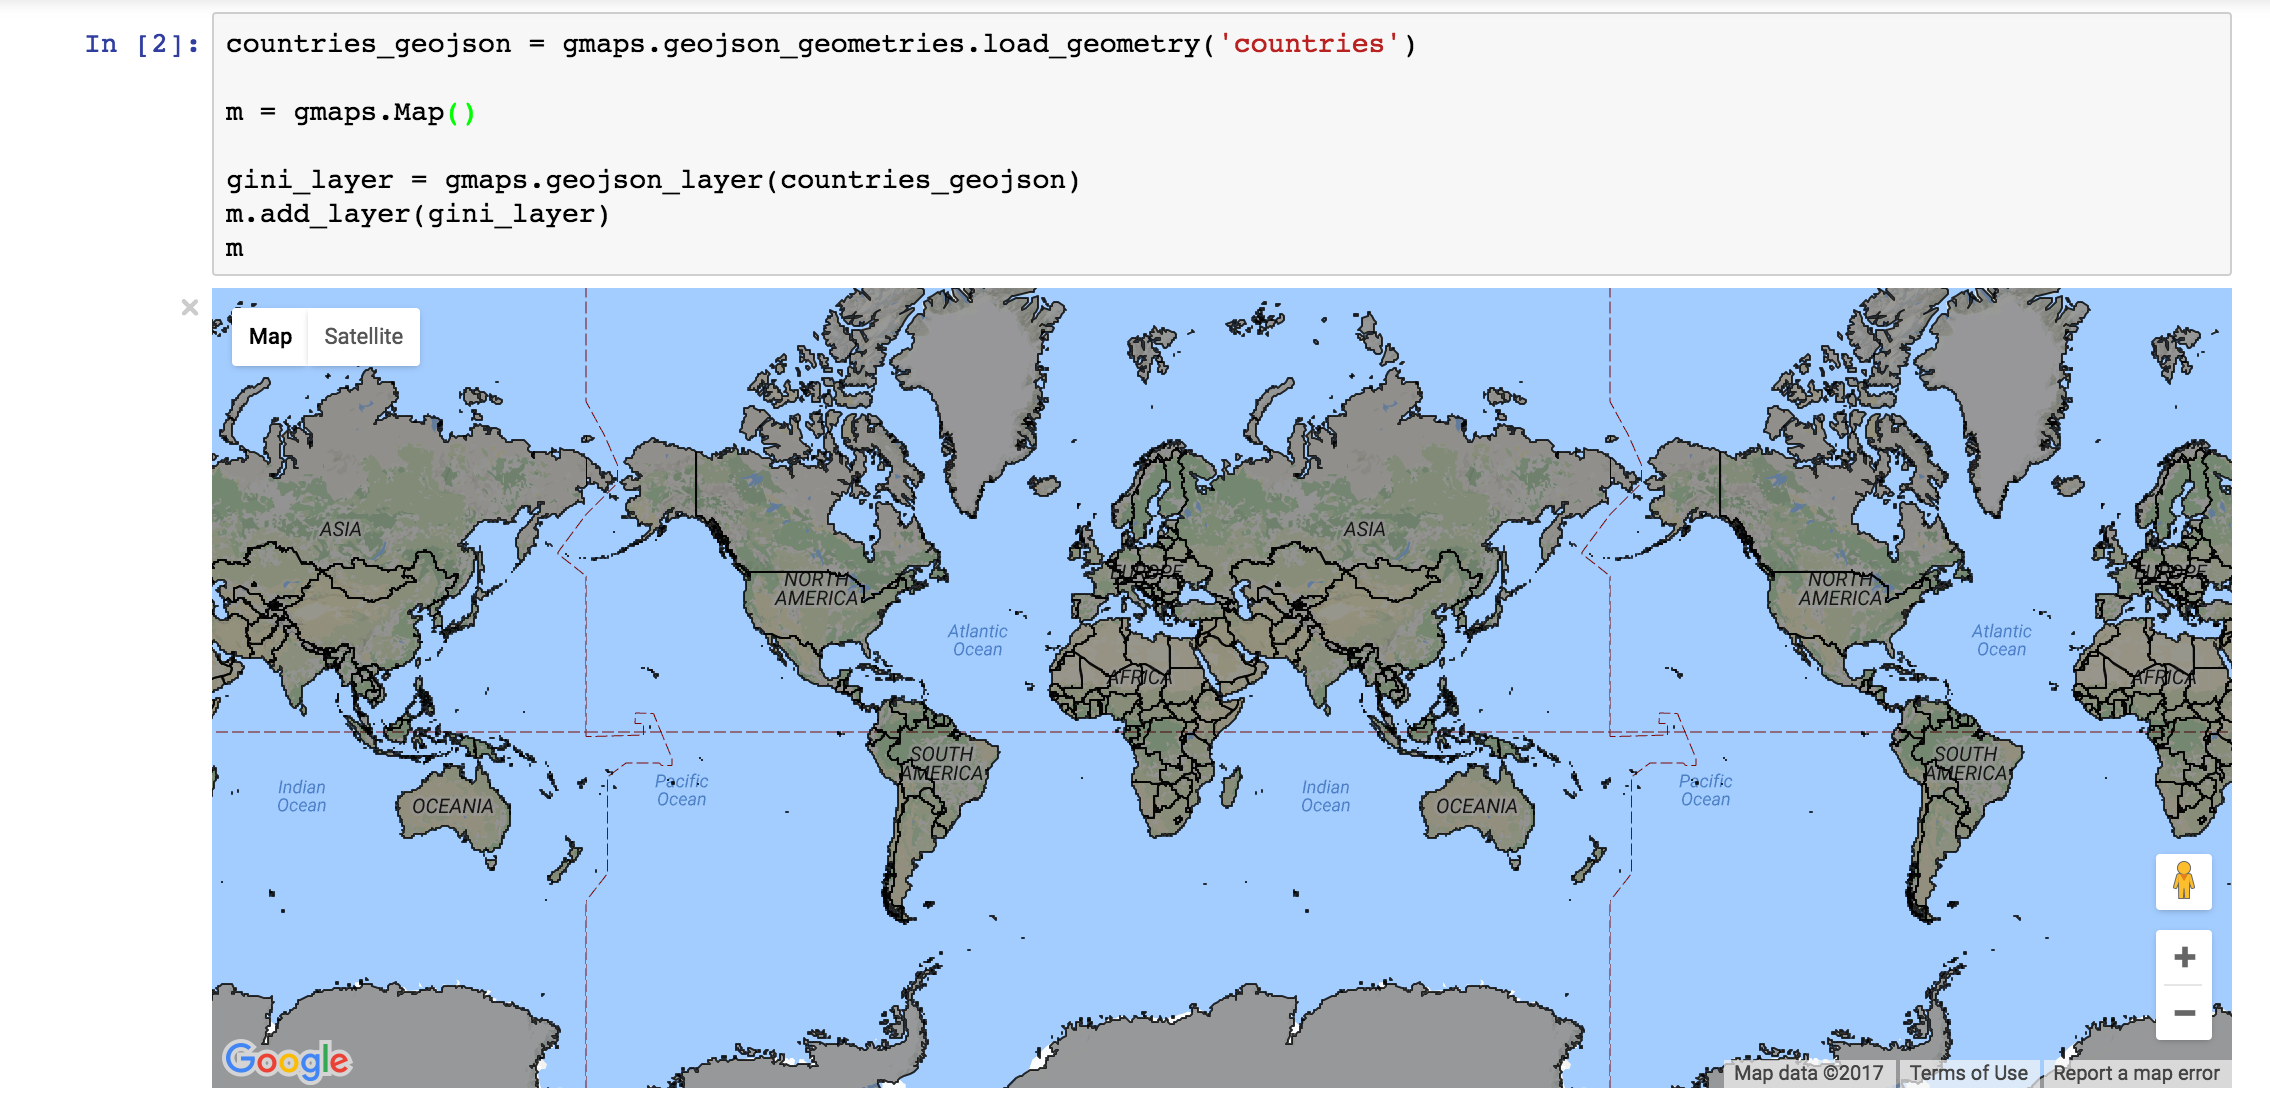
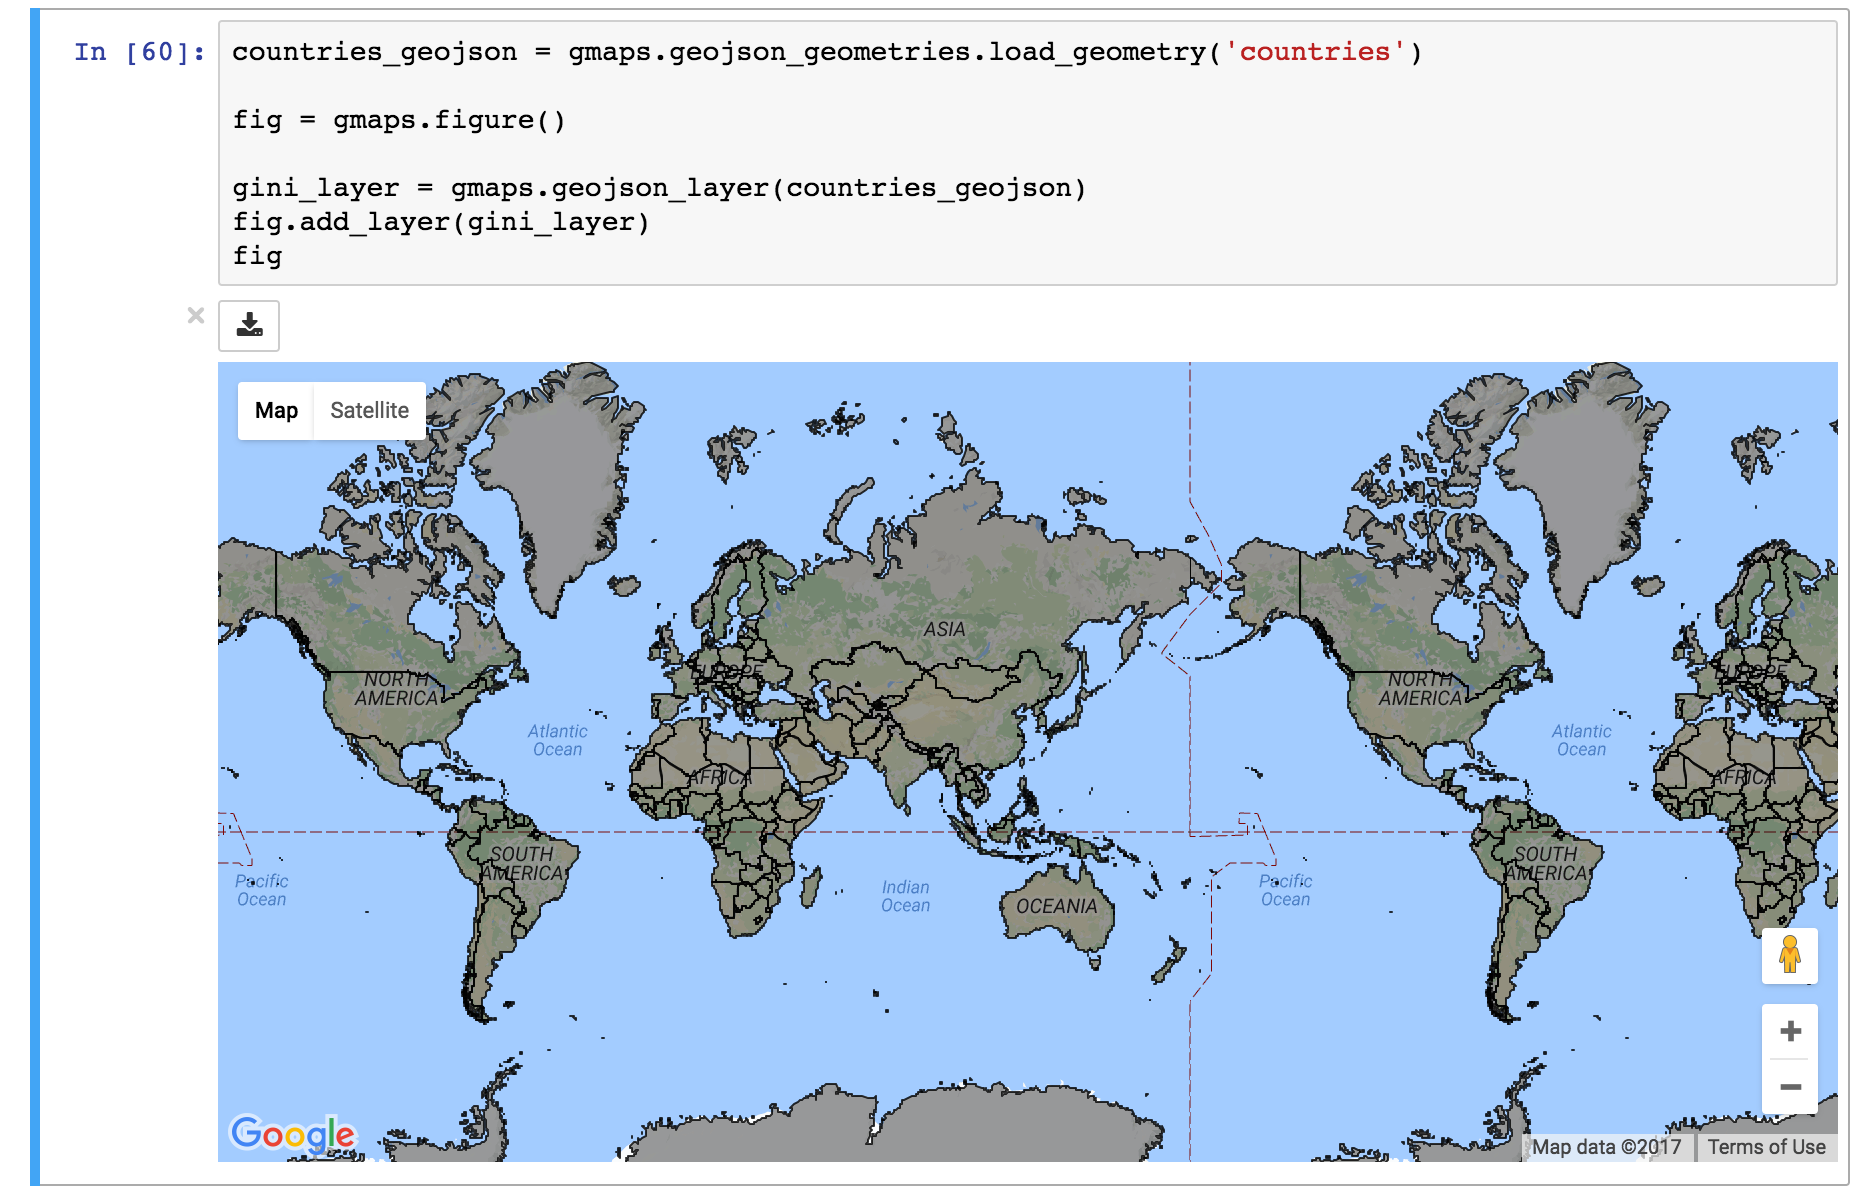
Finish migrating tutorial to use figure

diff --git a/docs/source/gmaps.rst b/docs/source/gmaps.rst
@@ -233,9 +233,9 @@ Markers are currently limited to the Google maps style drop icon. If you need to
     starbucks_layer = gmaps.symbol_layer(
         starbucks_df, fill_color="green", stroke_color="green", scale=2
     )
-    m = gmaps.Map()
-    m.add_layer(starbucks_layer)
-    m
+    fig = gmaps.figure()
+    fig.add_layer(starbucks_layer)
+    fig
 
 .. image:: starbucks-symbols.png
 
@@ -256,17 +256,19 @@ You can have several layers of markers. For instance, we can compare the locatio
 
 
     starbucks_layer = gmaps.symbol_layer(
-        starbucks_df, fill_color="green", stroke_color="green", scale=2
+        starbucks_df, fill_color="rgba(0, 150, 0, 0.4)", 
+        stroke_color="rgba(0, 150, 0, 0.4)", scale=2
     )
 
     kfc_layer = gmaps.symbol_layer(
-        kfc_df, fill_color="red", stroke_color="red", scale=2
+        kfc_df, fill_color="rgba(200, 0, 0, 0.4)", 
+        stroke_color="rgba(200, 0, 0, 0.4)", scale=2
     )
 
-    m = gmaps.Map()
-    m.add_layer(starbucks_layer)
-    m.add_layer(kfc_layer)
-    m
+    fig = gmaps.figure()
+    fig.add_layer(starbucks_layer)
+    fig.add_layer(kfc_layer)
+    fig
 
 .. image:: starbucks-kfc-example.png
 
@@ -291,11 +293,11 @@ Let's start by just plotting the raw GeoJSON::
 
   countries_geojson = gmaps.geojson_geometries.load_geometry('countries')
 
-  m = gmaps.Map()
+  fig = gmaps.figure()
 
   gini_layer = gmaps.geojson_layer(countries_geojson)
-  m.add_layer(gini_layer)
-  m
+  fig.add_layer(gini_layer)
+  fig
 
 This just plots the country boundaries on top of a Google map.
 
@@ -364,14 +366,14 @@ We now need to build an array of colors, one for each country, that we can pass 
 
 We can now pass our array of colors to the GeoJSON layer::
 
-  m = gmaps.Map(height="600px")
+  fig = gmaps.figure()
   gini_layer = gmaps.geojson_layer(
       countries_geojson, 
       fill_color=colors, 
       stroke_color=colors, 
       fill_opacity=0.8)
-  m.add_layer(gini_layer)
-  m
+  fig.add_layer(gini_layer)
+  fig
 
 .. image:: geojson-2.png
 
@@ -402,11 +404,11 @@ Use the `load_geometry` function to get the GeoJSON object::
 
   countries_geojson = gmaps.geojson_geometries.load_geometry('brazil-states')
 
-  m = gmaps.Map()
+  fig = gmaps.figure()
 
   geojson_layer = gmaps.geojson_layer(countries_geojson)
-  m.add_layer(geojson_layer)
-  m
+  fig.add_layer(geojson_layer)
+  fig
 
 New geometries would greatly enhance the usability of `jupyter-gmaps`. Refer to `this issue <https://github.com/pbugnion/gmaps/issues/112>`_ on GitHub for information on how to contribute a geometry.
 
@@ -423,10 +425,10 @@ So far, we have only considered visualizing GeoJSON geometries that come with `j
   with open("my_geojson_geometry.json") as f:
       geometry = json.load(f)
 
-  m = gmaps.Map()
+  fig = gmaps.figure()
   geojson_layer = gmaps.geojson_layer(geometry)
-  m.add_layer(geojson_layer)
-  m
+  fig.add_layer(geojson_layer)
+  fig
 
 Directions layer
 ^^^^^^^^^^^^^^^^
@@ -442,19 +444,19 @@ Directions layer
   montreux = (46.4, 6.9)
   zurich = (47.4, 8.5)
 
-  m = gmaps.Map()
+  fig = gmaps.figure()
   geneva2zurich = gmaps.directions_layer(geneva, zurich)
-  m.add_layer(geneva2zurich)
-  m
+  fig.add_layer(geneva2zurich)
+  fig
 
 .. image:: directions_layer_simple.png
 
 You can also pass waypoints. The can pass up to 23 waypoints (this is a limitation of the Google Maps directions service)::
 
-  m = gmaps.Map()
-  geneva2zurich_via_montreux =
+  fig = gmaps.figure()
+  geneva2zurich_via_montreux =\
       gmaps.directions_layer(geneva, zurich, waypoints=[montreux])
-  m.add_layer(geneva2zurich_via_montreux)
-  m
+  fig.add_layer(geneva2zurich_via_montreux)
+  fig
 
 .. image:: directions_layer_waypoints.png
